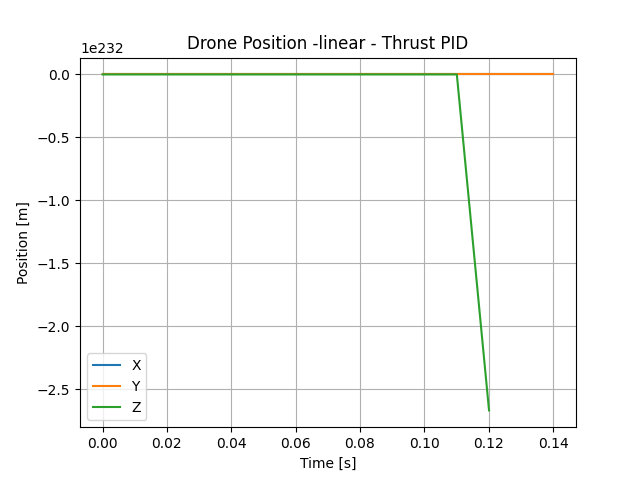
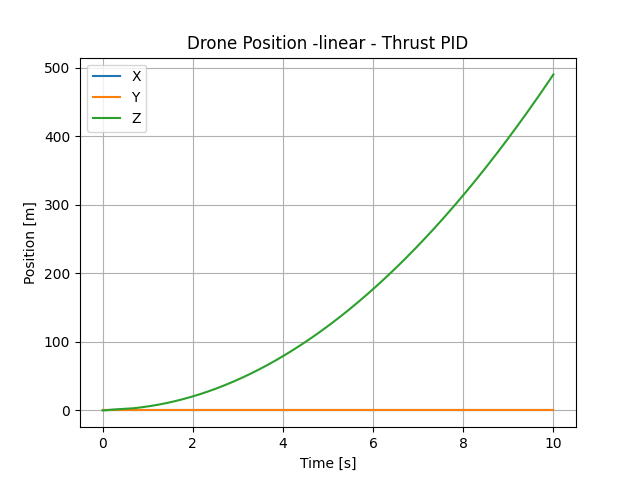
moved example pid python scripts into src/examples

diff --git a/src/pitch-roll.py b/src/pitch-roll.py
@@ -22,29 +22,33 @@ c2m = np.array([[-r, -r, r, r], [r, -r, -r, r], [1, -1, 1, -1]])
 
 ## Simulation Parameters
 
+simSpeed = 10
+
 #s = control.TransferFunction.s
 
-Kp = 5 # Proportional Gain
-Ti = 100 # Integral Time Constant
-Td = 10 # Derivative Time Constant
+Kp = 9000 # Proportional Gain
+Ki = 100 # Integral Time Constant
+Kd = 600 # Derivative Time Constant
 
 desired_roll = 0 # Desired Roll Angle
 desired_pitch = 0 # Desired Pitch Angle
 
-roll_pid = PID(Kp, Kp/Ti, Kp/Td, setpoint=desired_roll)
-pitch_pid = PID(Kp, Kp/Ti, Kp/Td, setpoint=desired_pitch)
+roll_pid = PID(Kp, Ki, Kd, setpoint=desired_roll)
+pitch_pid = PID(Kp, Ki, Kd, setpoint=desired_pitch)
 
 #G = Kp * (1 + (1/(Ti*s)) + Td*s) # PID Transfer Function
 
 # Generate the time vector
 
 Tdelt = 0.01 # Sampling Time
-roll_pid.sample_time = Tdelt/5
-pitch_pid.sample_time = Tdelt/5
+roll_pid.sample_time = Tdelt/simSpeed
+pitch_pid.sample_time = Tdelt/simSpeed
 Tstart = 0 # Start Time
-Tstop = 100 # End Time
+Tstop = 10 # End Time
 N = int((Tstop - Tstart)/Tdelt) # Number of Samples
 t = np.linspace(Tstart, Tstop, N) # Time Vector
+
+print("Simulation will take: ", N*Tdelt/simSpeed, " seconds")
 
 # Initialize vectors/matrices
 state = np.zeros([12, N+1]) # State Vector
@@ -111,7 +115,7 @@ for i in t:
   stateLin[:,index] = DroneStateLinear(stateLin[:,index-1], motorscI).update(Tdelt)
 
   index += 1
-  time.sleep(Tdelt/5)
+  time.sleep(Tdelt/simSpeed)
 
 
 ## Plotting
@@ -179,9 +183,9 @@ plt.plot(t, motorscLin[0][:-1], label='Motor 1')
 plt.plot(t, motorscLin[1][:-1], label='Motor 2')
 plt.plot(t, motorscLin[2][:-1], label='Motor 3')
 plt.plot(t, motorscLin[3][:-1], label='Motor 4')
-plt.title('Motor Speeds -linear')
+plt.title('Motor Force -linear')
 plt.xlabel('Time [s]')
-plt.ylabel('Speed [rad/s]')
+plt.ylabel('Force [N]')
 plt.legend()
 plt.grid()
 plt.savefig("plots/pitchroll/simple-pid-motor-speeds-linear.png")
@@ -251,9 +255,9 @@ plt.plot(t, motorsc[0][:-1], label='Motor 1')
 plt.plot(t, motorsc[1][:-1], label='Motor 2')
 plt.plot(t, motorsc[2][:-1], label='Motor 3')
 plt.plot(t, motorsc[3][:-1], label='Motor 4')
-plt.title('Motor Speeds')
+plt.title('Motor Force')
 plt.xlabel('Time [s]')
-plt.ylabel('Speed [rad/s]')
+plt.ylabel('Force [N]')
 plt.legend()
 plt.grid()
 plt.savefig("plots/pitchroll/simple-pid-motor-speeds.png")

diff --git a/src/thrust-pid.py b/src/thrust-pid.py
@@ -22,26 +22,30 @@ c2m = np.array([[-r, -r, r, r], [r, -r, -r, r], [1, -1, 1, -1]])
 
 ## Simulation Parameters
 
+simSpeed = 10
+
 #s = control.TransferFunction.s
 
 Kp = 1 # Proportional Gain
-Ti = 10 # Integral Time Constant
-Td = .5 # Derivative Time Constant
+Ki = 0 # Integral Time Constant
+Kd = 0.01 # Derivative Time Constant
 
-desired_z_position = 0 # Desired Z Position
+desired_z_position = -1 # Desired Z Position
 
-thrust_pid = PID(Kp, Kp/Ti, Kp/Td, setpoint=desired_z_position)
+thrust_pid = PID(Kp, Ki, Kd, setpoint=desired_z_position)
 
 #G = Kp * (1 + (1/(Ti*s)) + Td*s) # PID Transfer Function
 
 # Generate the time vector
 
 Tdelt = 0.01 # Sampling Time
-thrust_pid.sample_time = Tdelt/10
+thrust_pid.sample_time = Tdelt/simSpeed
 Tstart = 0 # Start Time
 Tstop = 10 # End Time
 N = int((Tstop - Tstart)/Tdelt) # Number of Samples
 t = np.linspace(Tstart, Tstop, N) # Time Vector
+
+print("Simulation will take: ", N*Tdelt/simSpeed, " seconds")
 
 # Initialize vectors/matrices
 state = np.zeros([12, N+1]) # State Vector
@@ -98,10 +102,10 @@ for i in t:
   state[:,index] = DroneState(state[:,index-1], motorscI).update(Tdelt)
   stateLin[:,index] = DroneStateLinear(stateLin[:,index-1], motorscI).update(Tdelt)
 
-  print("del_thrust: ", del_thrust, "Zc: ", Zc, "Z: ", state[Z][index-1])
+  #print("del_thrust: ", del_thrust, "Zc: ", Zc, "Z: ", state[Z][index-1])
 
   index += 1
-  time.sleep(Tdelt/10)
+  time.sleep(Tdelt/simSpeed)
 
 
 ## Plotting

diff --git a/README.md b/README.md
@@ -8,7 +8,7 @@ I have began designing the control system for my drone. This is using an ideal p
 
 ...
 
-### Control Systems
+## Control Systems
 
 Multirotor drone flight controllers must be made up of (at least) three core control systems. These are:
 
@@ -16,7 +16,7 @@ Multirotor drone flight controllers must be made up of (at least) three core con
 2. thrust control
 3. yaw control
 
-#### Roll/Pitch Control
+### Roll/Pitch Control
 
 To start, I randomly picked Gains of:
 
@@ -55,7 +55,7 @@ Using this control with the above gains, and the linearized plant equations, we 
 
 Please __note__: Linear/non-linear refers to state model, not control scheme
 
-## Simple PID Control Plots - linear
+#### Simple PID Control Plots - linear
 
 <table>
   <tr>
@@ -77,9 +77,9 @@ Please __note__: Linear/non-linear refers to state model, not control scheme
   </tr>
 </table>
 
-<img src="./plots/simple-pid-motor-speeds-linear.png" alt="simple-pid-motor-forces-linear" width="600">
+<img src="./plots/pitchroll/simple-pid-motor-speeds-linear.png" alt="simple-pid-motor-forces-linear" width="600">
 
-## Simple PID Control Plots - nonLinear
+#### Simple PID Control Plots - nonLinear
 
 <table>
   <tr>
@@ -103,13 +103,13 @@ Please __note__: Linear/non-linear refers to state model, not control scheme
 
 <img src="./plots/pitchroll/simple-pid-motor-speeds.png" alt="simple-pid-motor-forces" width="600">
 
-## Linear vs Non-linear
+#### Linear vs Non-linear
 
 Here we see the difference between the linearized and non-linear models. Drag is approximated as zero when the EOM's are linearized, so there is no force opposing velocity. We can see this in the linear velocity plot when velocity does not return to zero. Additionally, there is no force of gravity in the linear equations, and as we can see the drone stays in the same Z pos. Oppositely in the non-linear plots, we see that there _is_ drag, and the Y velocity quickly returns back to zero. However, gravity is modeled, so the drone very quickly falls out of the sky. This can be seen with the drone Z position falling well into the depths of hell (positive is Inertial Down) but the Y location remaining relatively the same (it does not remain zero but the plot scale does not show it). 
 
-#### Thrust Control
+### Thrust Control
 
-###### Linear
+#### Linear
 
 <table>
   <tr>
@@ -132,7 +132,7 @@ Here we see the difference between the linearized and non-linear models. Drag is
 
 <img src="./plots/thrust/simple-pid-motor-speeds-linear-thrust.png" alt="simple-pid-motor-forces-linear" width="600">
 
-###### Non-Linear
+#### Non-Linear
 
 <table>
   <tr>
@@ -155,9 +155,35 @@ Here we see the difference between the linearized and non-linear models. Drag is
 
 <img src="./plots/thrust/simple-pid-motor-speeds-thrust.png" alt="simple-pid-motor-forces" width="600">
 
-#### Yaw Control
+#### Linear vs Non-linear
+
+Notice that the thrust control only works with the non-linear equations, as gravity is modeled here.
+
+### Yaw Control
 
 not started - need magnetometer or some other way to determine yaw from start position
+
+## Some of the Math
+
+### PID Math
+
+If you want to see a couple of different ways to model PID systems explicitly, look at the scripts in `src/examples/`. The `sample-pid.py` script uses an explicitly solved ODE function (the PID ODE) to control a simple step function. The `transfer-function-example.py` script uses the python `control` package to generate a transfer function and control a step function.
+
+In the pitch-roll and thrust PID controllers, I use the `simple-pid` python package to generate the drive value. This cuts out dependencies in order to run efficiently in micro-python. 
+
+### Equations of motion
+
+I will write these up in latex but do not know how to integrate that into markdown so will not have these for now.
+
+### Numerical Integration
+
+I chose the simplest possible numerical integration model to start - explicit Euler:
+
+```
+x_{k+1} = x_{k} + f(x_{k},u_{k},p)*dt
+```
+
+Using a time step of `dt=0.1s` has worked well with this method, although I am looking into using Runge-Kutta or an implicit Euler method for more accurate analysis.
 
 ## Env Setup
 
